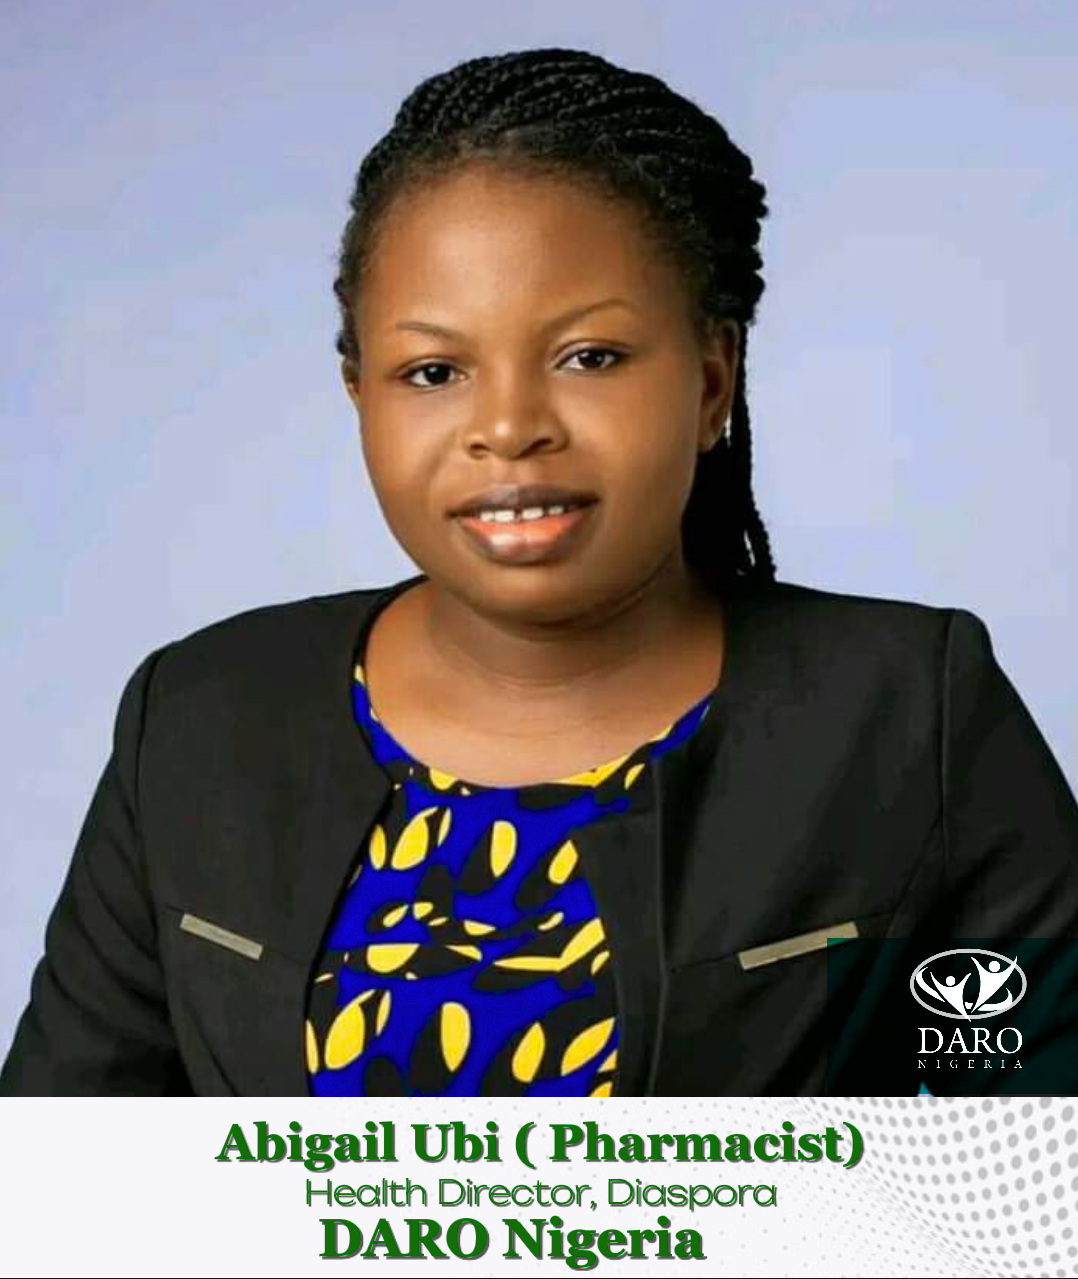
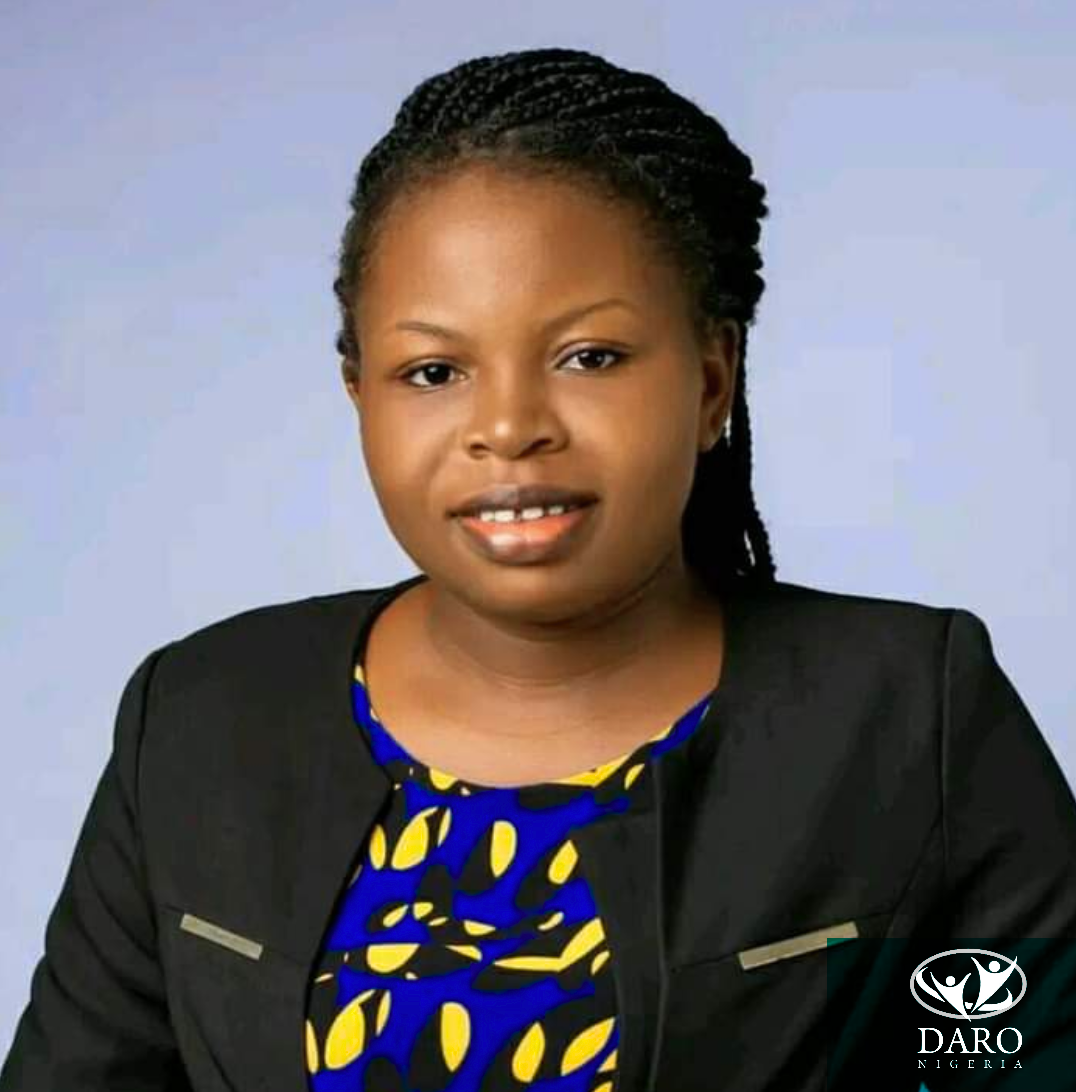
feature/added about

diff --git a/data.js b/data.js
@@ -157,3 +157,70 @@ export const about = [
       "DARO is committed to building trust by showing compassion that wins confidence, so that proper assessment can be made, service provided, and needs meet, resulting in sustainable development and growth. ",
   },
 ];
+
+export const team = [
+  {
+    id: 1,
+    name: "Emmanuel Ajiroghene",
+    portfolio: "Executive Director",
+    image: "/images/team/Emma_daro.png",
+    about: `Emmanuel Ajiroghene founded DARO in 2024 and serves as its Executive
+          Director. Prior to this, he established Loving the Least of These
+          (LLOT-Support), an initiative under the SDA Church in Calabar, where
+          he chaired the committee overseeing it's social activities from 2020
+          to 2023. A seasoned missionary volunteer, he has served in numerous
+          fields and is an Elder of the Seventh-day Adventist Church.`,
+  },
+  {
+    id: 2,
+    name: "Agashi Chika",
+    portfolio: "Strategic Operation & Growth Director",
+    image: "/images/team/Chika_daro.png",
+    about: `Agashi Chika Ezekiel is an ordained minister and serves as a member, board of trustees, DARO Nigeria. He is also the Director of Strategic Operations and Growth.
+Before joining DARO in 2024, he has been serving as the Evangelism/Global mission/AMR director in Edo Conference of Seventh-day Adventist church. He is a passionate soul winner.
+`,
+  },
+
+  {
+    id: 3,
+    name: "Samuel Ajiroghene",
+    portfolio: "Financial Director",
+    image: "/images/team/Samuel_daro.png",
+    about: `Samuel O. Ajiroghene (ACA), a Chartered Accountant with a passion for selfless and humanitarian services, joined DARO in 2024 as the Finance Director.
+Before joining DARO, Mr. Ajiroghene served with various Delta State Government agencies, holding roles as a Social Welfare Assistant and an Accountant.
+`,
+  },
+  {
+    id: 4,
+    name: "Happiness Ugochi",
+    portfolio: "Human Relations Director",
+    image: "/images/team/Ugochi_daro.png",
+    about: `Happiness Ugochi Emereonye is a passionate Microbiologist and Administrator with a strong commitment to selfless service and humanitarian efforts. She joined DARO in 2024 as the The Human Relations Director.
+Prior to her role at DARO, Happiness gained valuable experience as an Educator and Administrative Supervisor in various institutions across Calabar in Cross River State and Owerri in Imo State, Nigeria.
+`,
+  },
+  {
+    id: 5,
+    name: "Favour Onah",
+    portfolio: "Humanitarian Affairs Director ",
+    image: "/images/team/Faviour_daro.png",
+    about: `Favour Onah is a highly accomplished and self-motivated the Administrative and human resource professional. With over 8 years of progressive leadership and organizational development. Before joining DARO Nigeria in 2024, Favour has a track record of building a high-performing team, successfully implementing best practices, and utilizing the best people management tools to meet the objectives set by the organization.
+`,
+  },
+  {
+    id: 6,
+    name: "Abigail; Ubi",
+    portfolio: "Health Director ",
+    image: "/images/team/Abigail_daro.png",
+    about: `Abigail Stephen Ubi is a Nigerian-trained pharmacist with a deep passion for serving humanity and making a positive impact. She joined DARO in 2025 as the Health Director.
+Before assuming her role at DARO, Abigail acquired extensive experience in the public health sector, working as a Consultant Pharmacist with various non-governmental organizations in Calabar, Cross River State, Nigeria.`,
+  },
+  {
+    id: 7,
+    name: "Gospel Benjamin",
+    portfolio: "Crisis Response and Logistics Coordinator",
+    image: "/images/team/Gospel_daro.png",
+    about: `Godspel Benjamin is a skilled professional who joined DARO Nigeria in 2025 as a Crisis Response and Logistics Coordinator. He has extensive experience as a Health, Safety, and Environment (HSE) Inspector in Nigeria and abroad.
+He has also worked as a Materials and Logistics Coordinator with international organizations and has a solid background in managing civil construction projects. His diverse expertise makes him a valuable asset in crisis management, logistics, and project execution.`,
+  },
+];

diff --git a/components/About/team.js b/components/About/team.js
@@ -1,28 +1,29 @@
 import React from "react";
 import styles from "./team.module.css";
 import Image from "next/image";
+import { team } from "@/data";
 
 const Team = () => {
   return (
     <div className={styles.teamContainer}>
-      <section className={styles.memberCard}>
-        <div className={styles.chipCircle}>AS</div>
-        <p className={styles.description}>
-          Emmanuel Ajiroghene founded DARO in 2024 and serves as its Executive
-          Director. Prior to this, he established Loving the Least of These
-          (LLOT-Support), an initiative under the SDA Church in Calabar, where
-          he chaired the committee overseeing it's social activities from 2020
-          to 2023. A seasoned missionary volunteer, he has served in numerous
-          fields and is an Elder of the Seventh-day Adventist Church.
-        </p>
-        <div className={styles.office}>
-          <p className={styles.name}>Emma</p>
-          <p className={styles.portfolio}>CEO</p>
-        </div>
-        <div className={styles.chip}>
-          <Image src={"/image/src.png"} width={20} height={20} alt="teamImg" />
-        </div>
-      </section>
+      {team.map(({ id, name, portfolio, image, about }) => {
+        const nameSplit = name.split(" ");
+        const name1 = nameSplit[0].split("")[0];
+        const name2 = nameSplit[1].split("")[0];
+        return (
+          <section className={styles.memberCard} key={id}>
+            <div className={styles.chipCircle}>{name1 + name2}</div>
+            <p className={styles.description}>{about}</p>
+            <div className={styles.office}>
+              <p className={styles.name}>{name}</p>
+              <p className={styles.portfolio}>{portfolio}</p>
+            </div>
+            <div className={styles.chip}>
+              <Image src={image} width={100} height={100} alt="teamImg" />
+            </div>
+          </section>
+        );
+      })}
     </div>
   );
 };

diff --git a/components/About/team.module.css b/components/About/team.module.css
@@ -1,8 +1,11 @@
 .teamContainer {
   display: flex;
+  overflow: hidden;
+  flex-wrap: wrap;
   justify-content: center;
   align-items: center;
   width: 100%;
+  margin-bottom: 50px;
 }
 
 .memberCard {
@@ -13,7 +16,9 @@
   background-color: #fff;
   border-radius: 10px;
   min-height: 500px;
-  width: 450px;
+  max-width: 400px;
+  margin: 10px;
+  margin-bottom: 50px;
   box-shadow: 0px 10px 20px rgba(0, 0, 0, 0.15);
   transition: transform 0.3s ease, box-shadow 0.3s ease;
 }
@@ -31,8 +36,8 @@
   height: 80px;
   border-radius: 50%;
   color: #fff;
-  font-weight: 600;
-  font-size: 20px;
+  font-weight: 200;
+  font-size: 35px;
   margin: 20px;
   background-color: orange;
 }
@@ -42,12 +47,22 @@
   text-align: justify;
   color: #888;
 }
+
+.office {
+  display: flex;
+  flex-direction: column;
+  justify-content: center;
+  align-items: center;
+}
 .name {
   font-family: "Lucida Sans", "Lucida Sans Regular", "Lucida Grande",
     "Lucida Sans Unicode", Geneva, Verdana, sans-serif;
   font-size: 30px;
   color: #e65100;
   margin-top: 20px;
+}
+.portfolio {
+  color: #666;
 }
 .chip {
   width: 100%;
@@ -56,5 +71,9 @@
   display: flex;
   justify-content: center;
   align-items: center;
-  margin: 0 auto -4vh auto;
+  margin: 0 auto -6vh auto;
+}
+
+.chip img {
+  border-radius: 50%;
 }

diff --git a/components/About/index.js b/components/About/index.js
@@ -1,6 +1,6 @@
 import React from "react";
 import Profile from "./profile";
-import Campaign from "./campaign";
+// import Campaign from "./campaign";
 import Team from "./team";
 import styles from "./about.module.css";
 
